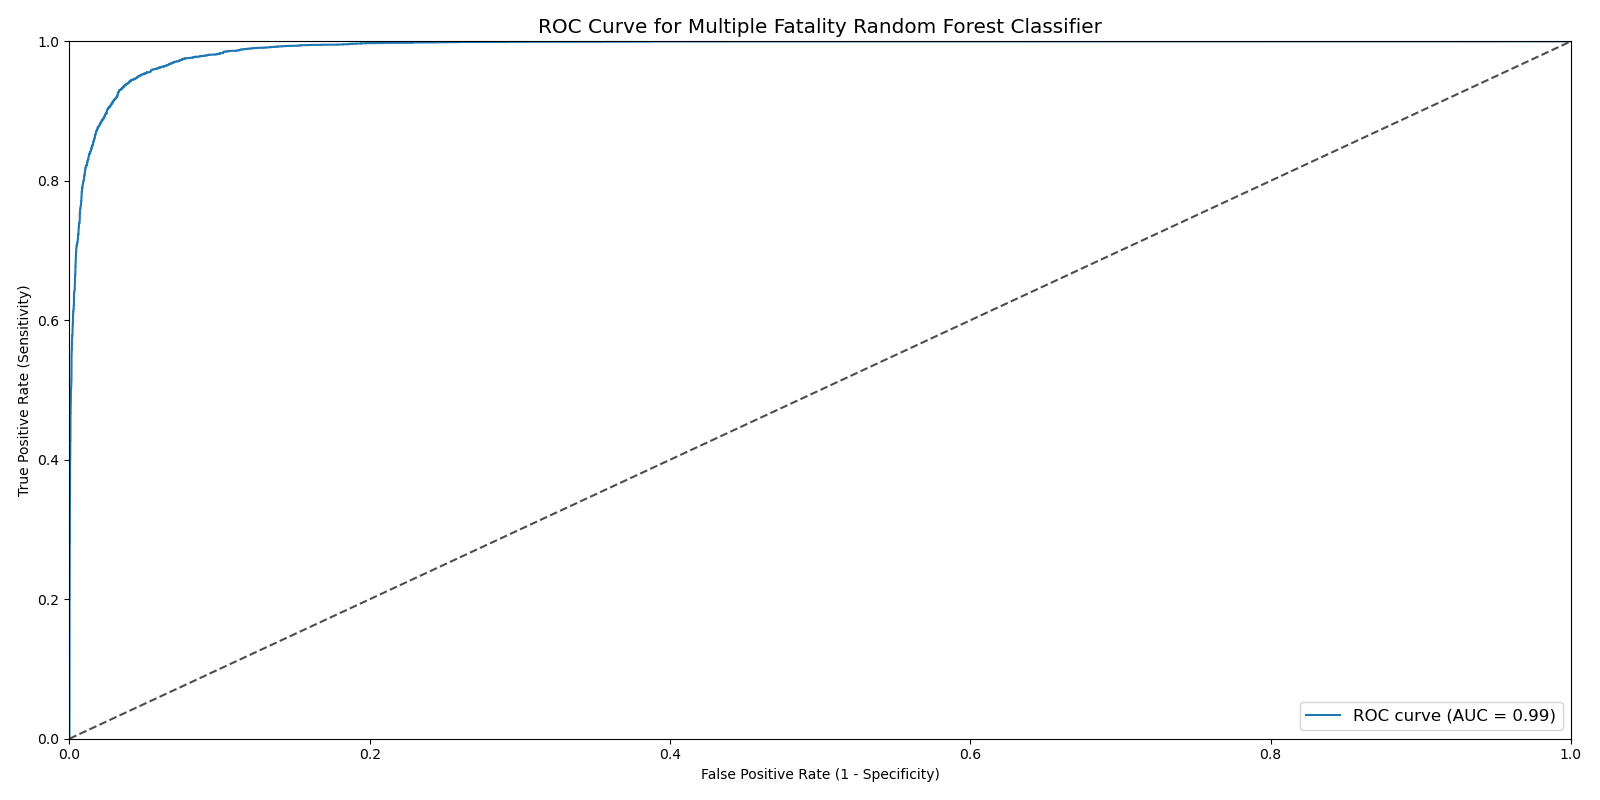
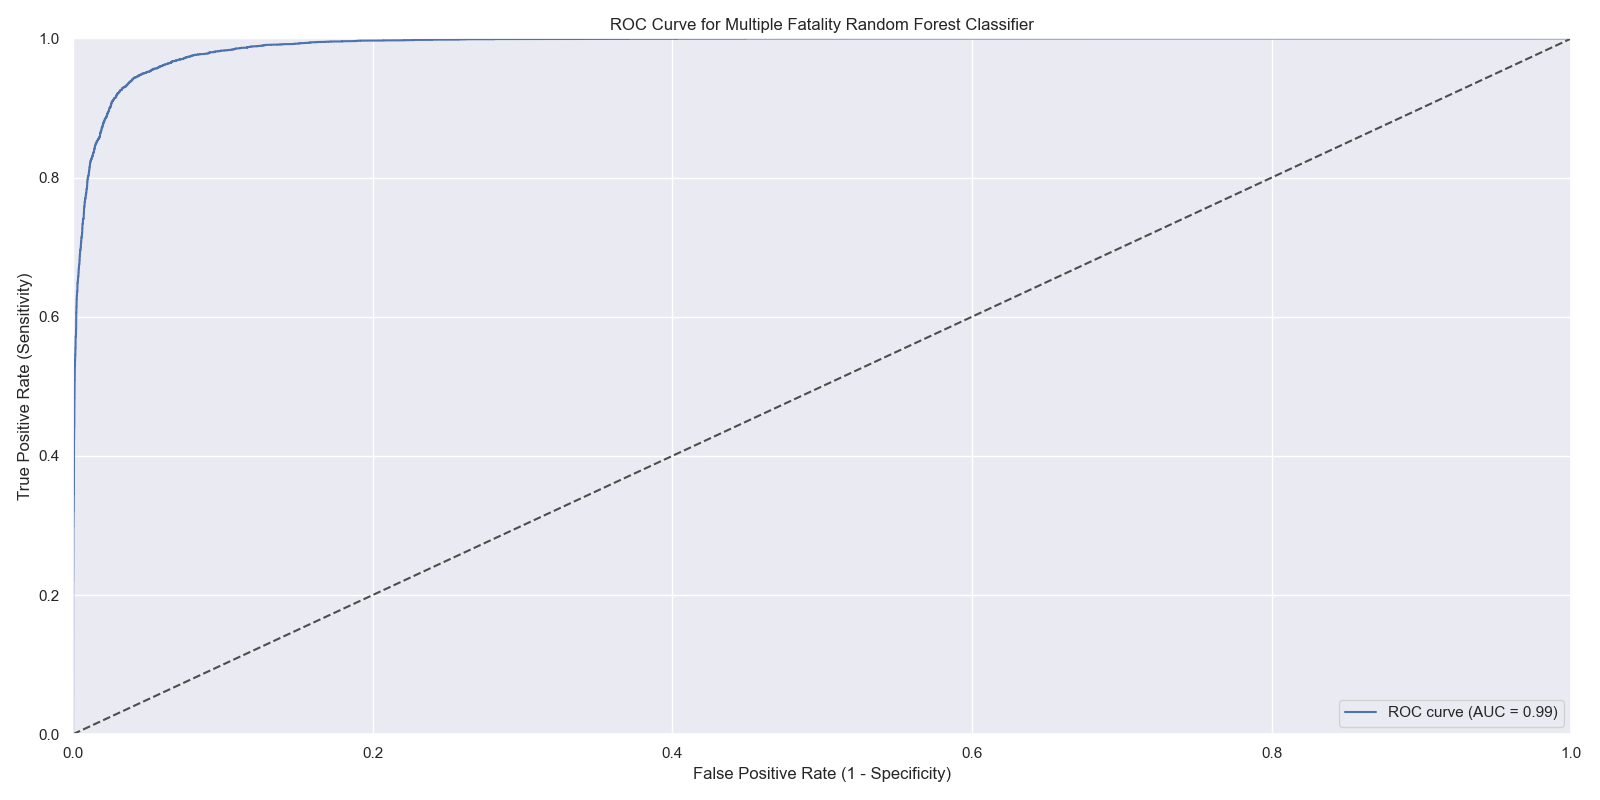
Added feature importance evaluation

diff --git a/utils.py b/utils.py
@@ -1,7 +1,12 @@
 #!/usr/bin/env python3
 
+import sys
+import numpy as np
 from sklearn import metrics
 import matplotlib.pyplot as plt
+import seaborn as sns
+
+sns.set()
 
 
 def print_metrics(labels, preds):
@@ -43,8 +48,26 @@ def roc_curve(labels, probs, name, suffix):
     fig.savefig(f'visualizations/roc_curve_{suffix}.png')
 
 
-def feature_importance():
-    pass
+def feature_importance(model, feature_names, name, suffix, n_features=10):
+    try:
+        feature_importances = model.feature_importances_
+    except AttributeError:
+        try:
+            feature_importances = model.coef_[0]
+        except AttributeError as ae:
+            print(ae)
+            sys.exit(1)
+
+    sorted_idx = feature_importances.argsort()[:n_features]
+
+    y_ticks = np.arange(0, n_features)
+    fig, ax = plt.subplots(figsize=(16, 8))
+    ax.barh(y_ticks, feature_importances[sorted_idx])
+    ax.set_yticklabels(feature_names[sorted_idx])
+    ax.set_yticks(y_ticks)
+    ax.set_title(f'{name} Feature Importances')
+    plt.show()
+    fig.savefig(f'visualizations/feature_importances_{suffix}.png')
 
 
 def permutation_importance():

diff --git a/accidents/models.py b/accidents/models.py
@@ -38,7 +38,6 @@ def main():
 
     models = {
         'Random Forest': (RandomForestClassifier(n_estimators=100,
-                                                 class_weight='balanced',
                                                  min_samples_leaf=5,
                                                  random_state=2020),
                           'rf')
@@ -52,6 +51,7 @@ def main():
 
         utils.print_metrics(y_test, y_pred)
         utils.roc_curve(y_test, y_probs, name, suffix)
+        utils.feature_importance(model, feature_names, name, suffix)
 
 
 if __name__ == '__main__':
